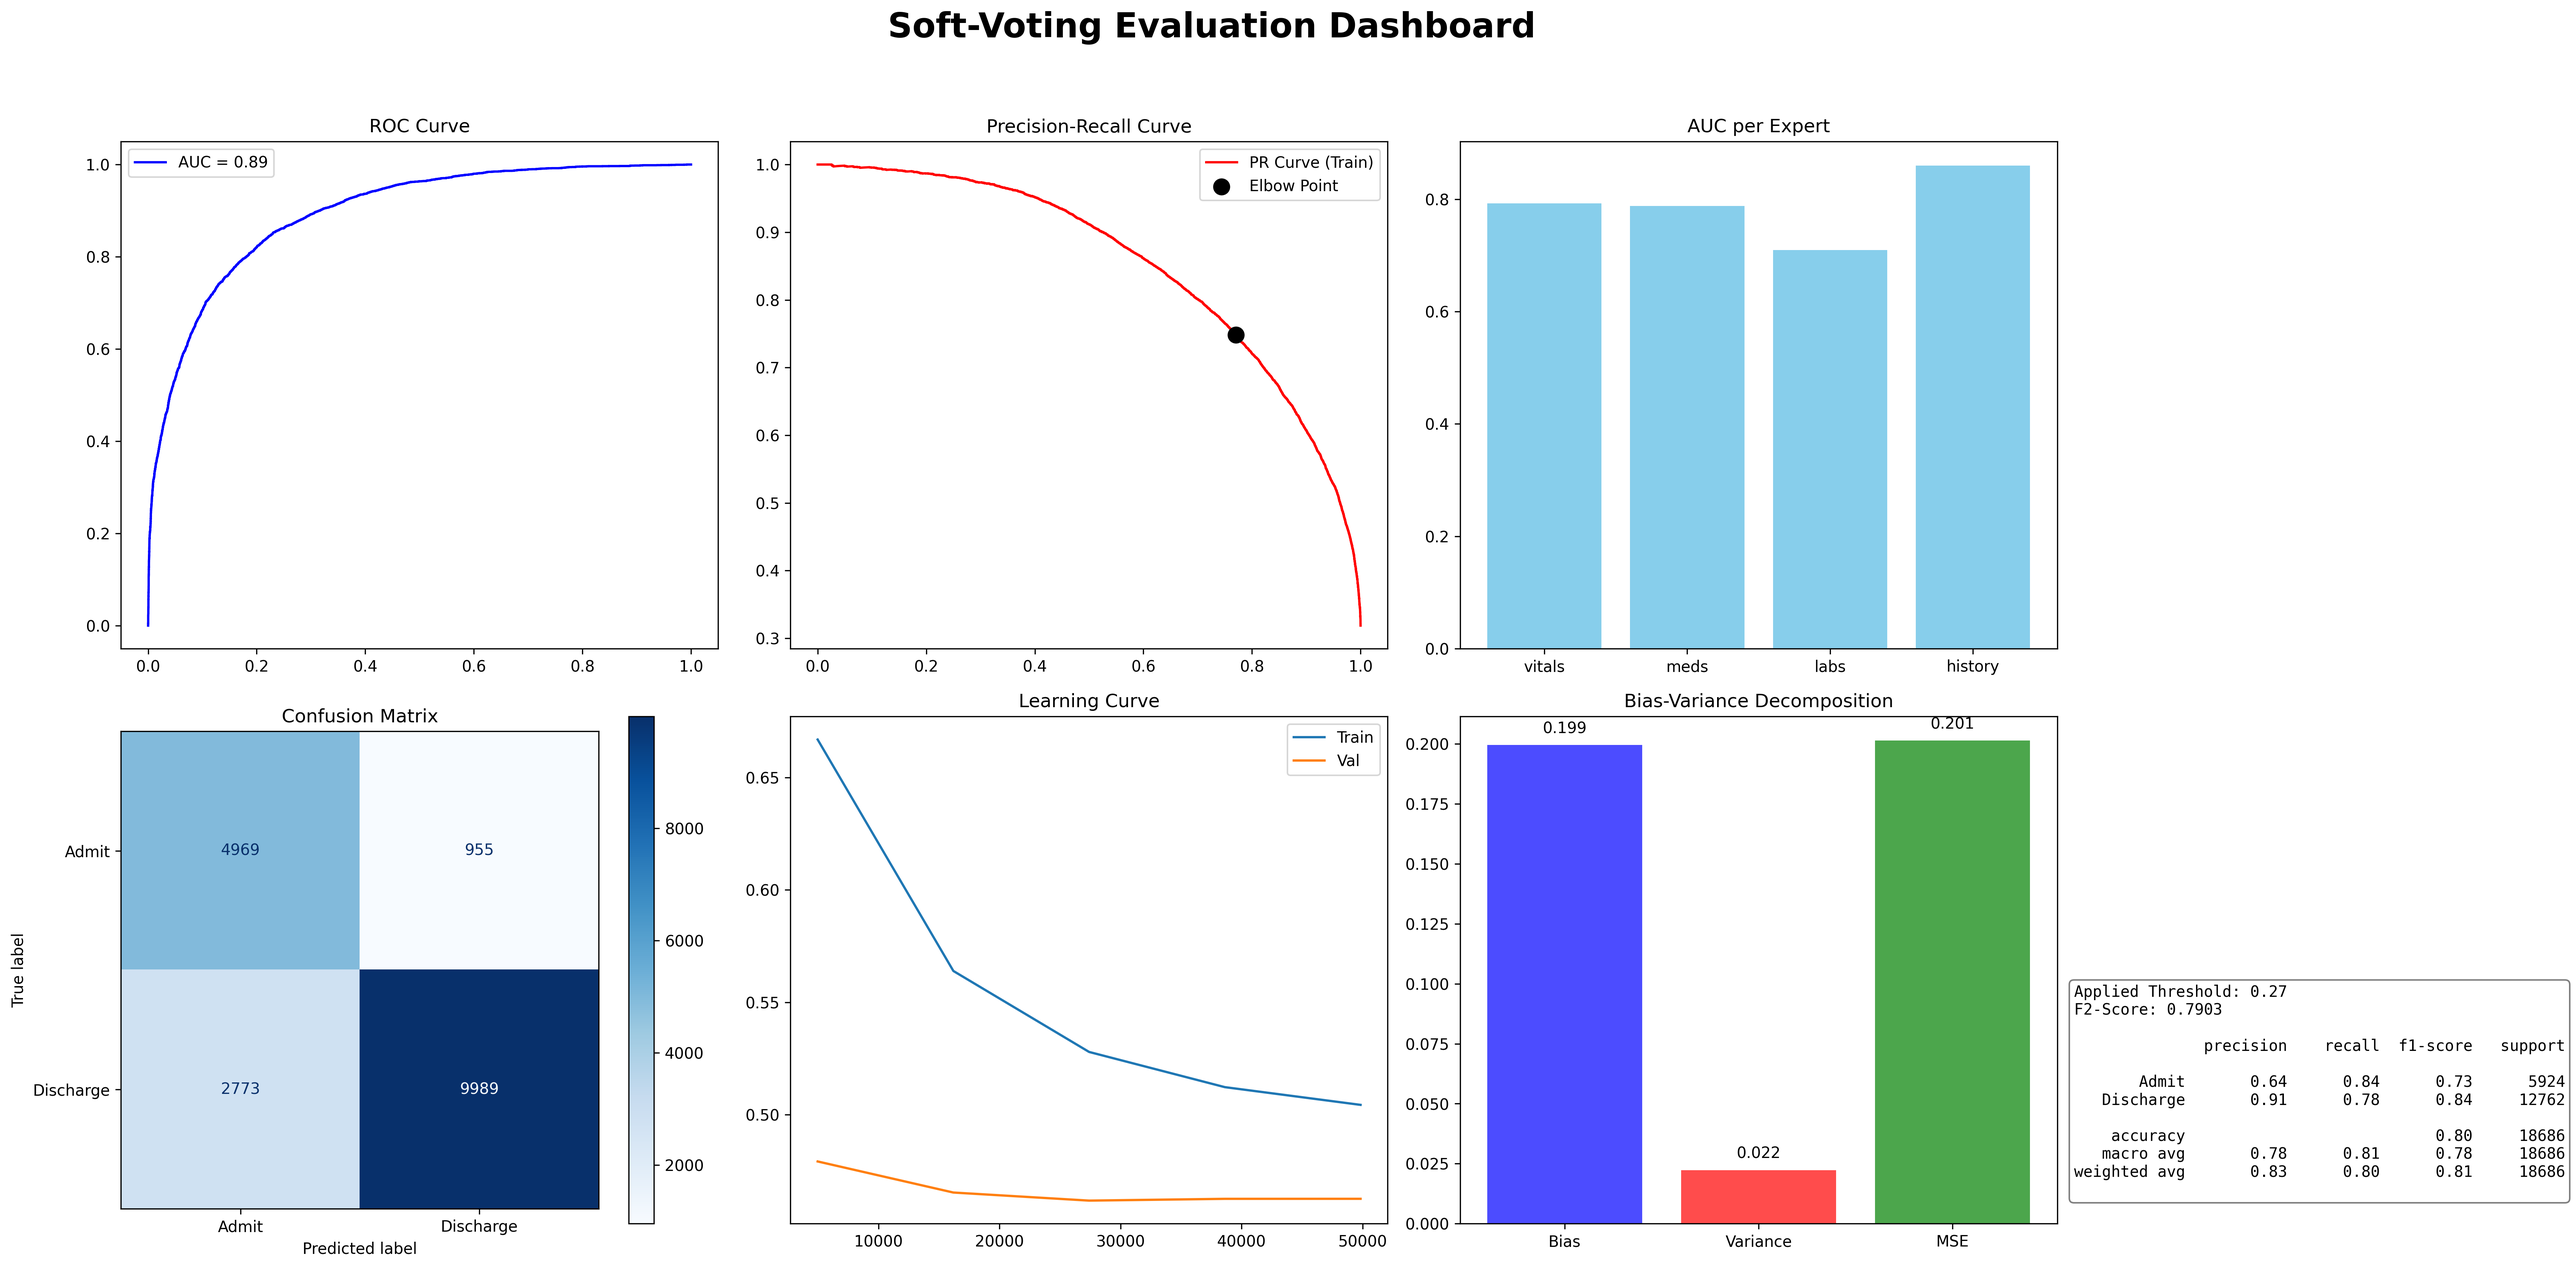
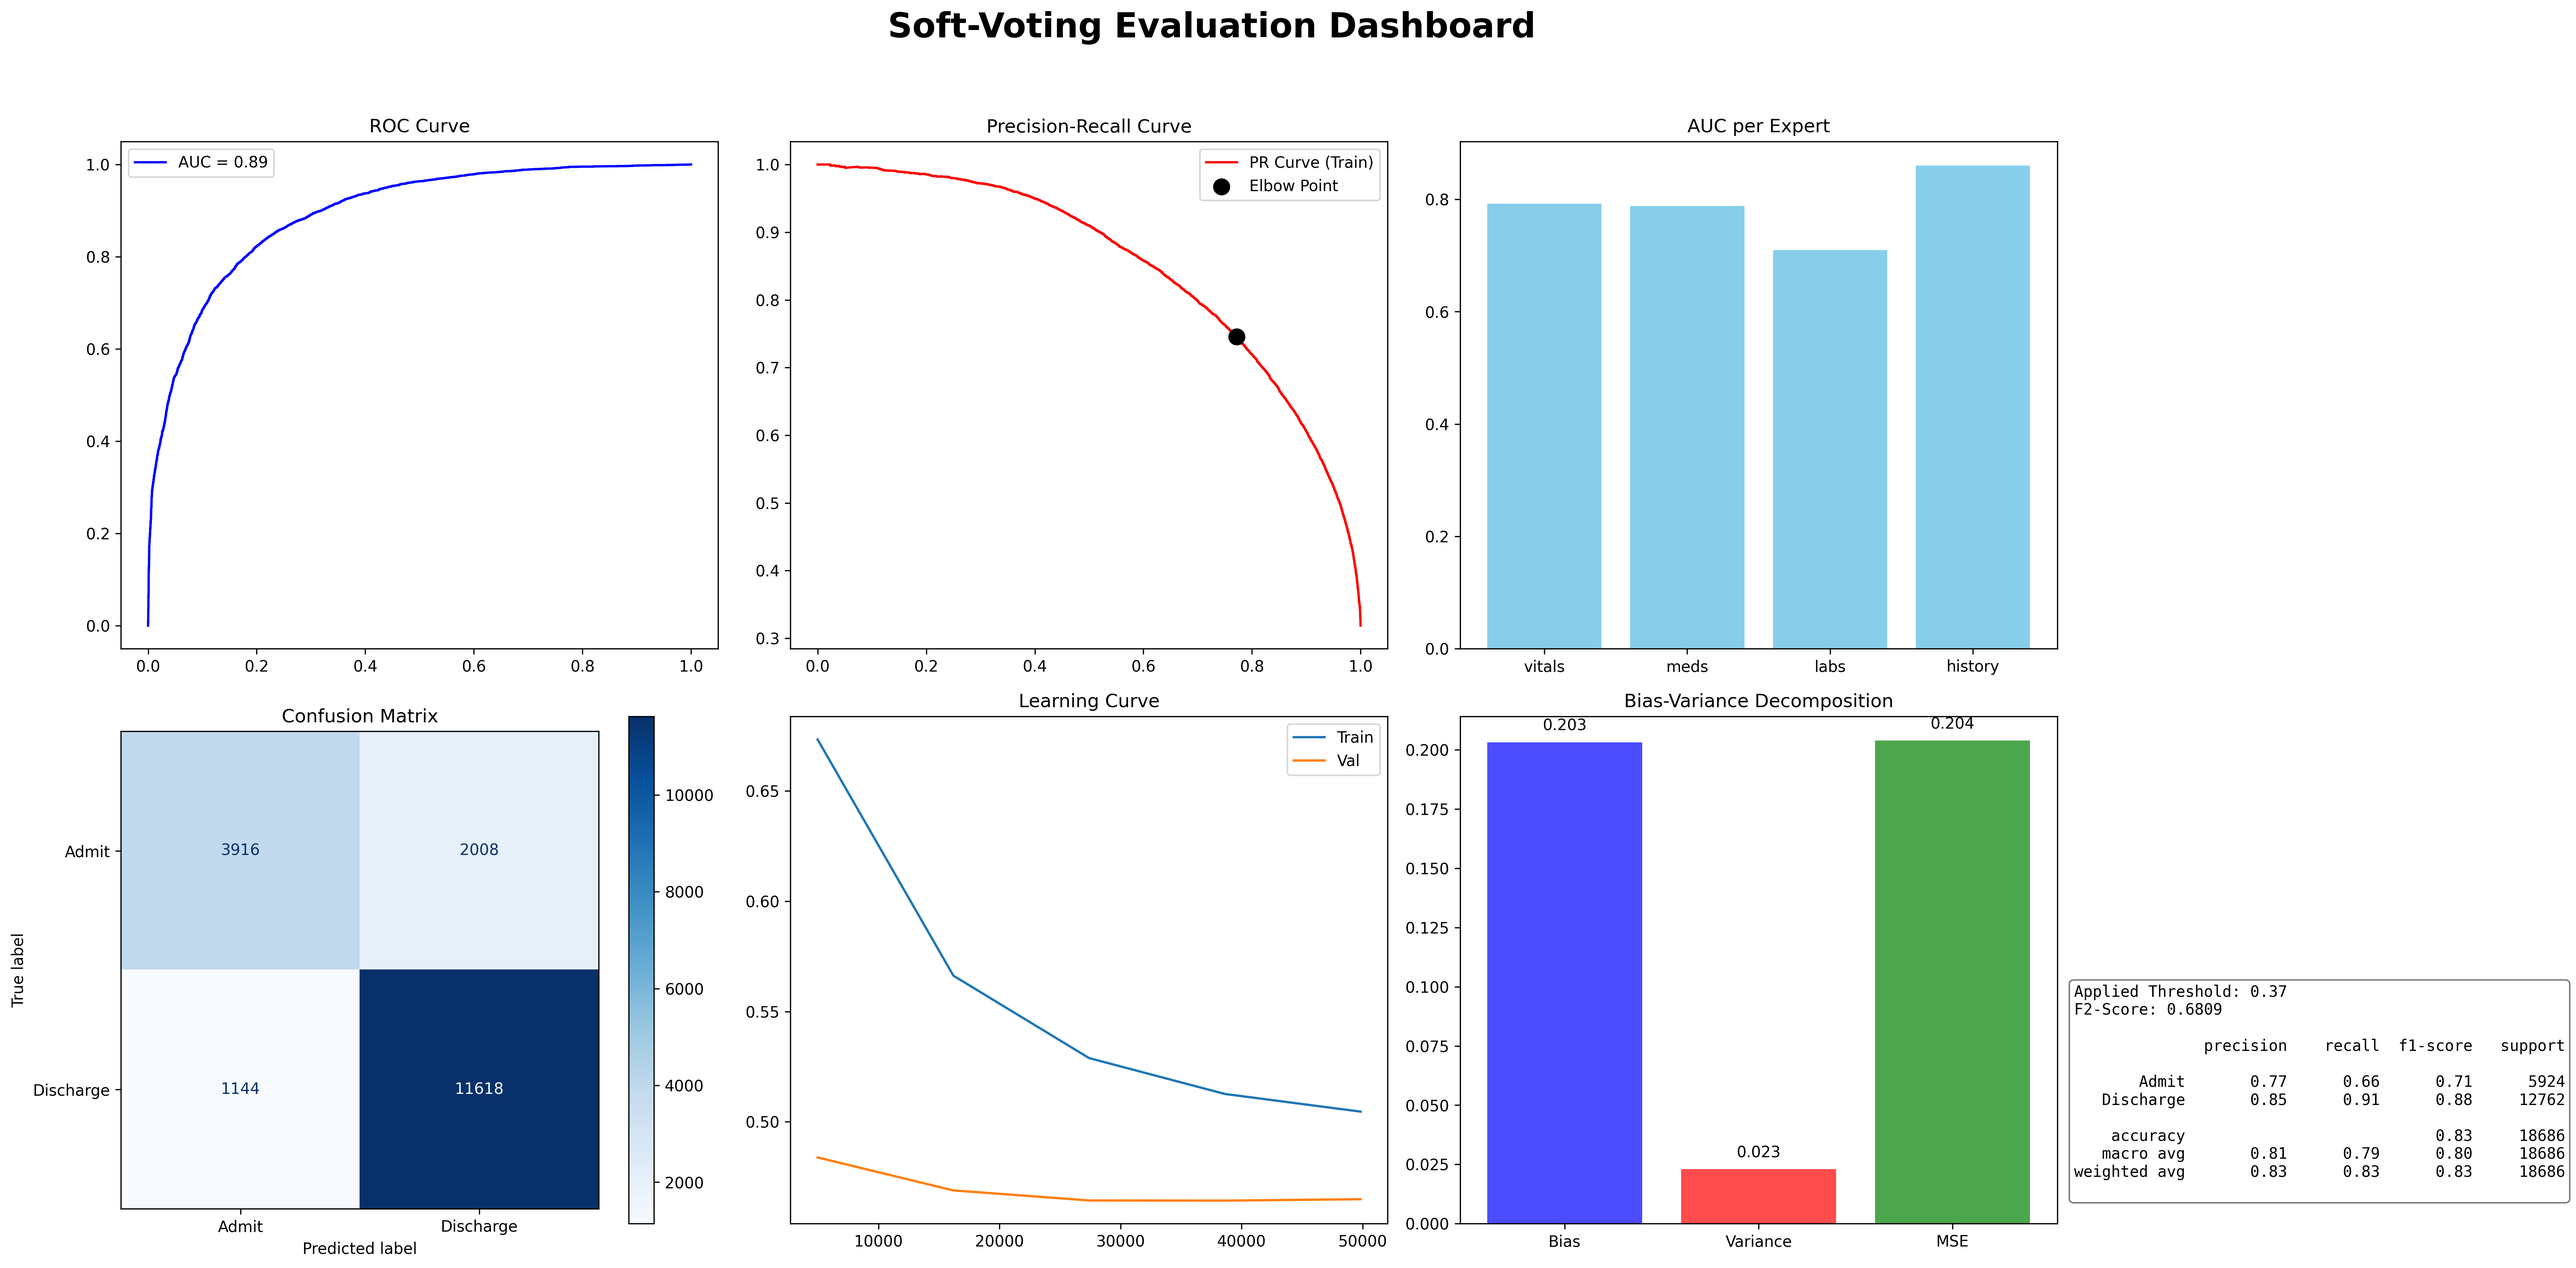
Update thresholds for both classifiers

diff --git a/scripts/triage_stacking.py b/scripts/triage_stacking.py
@@ -102,11 +102,12 @@ stacking_model = StackingClassifier(estimators=base_learners, final_estimator=me
 print("Training Stacking model...")
 stacking_model.fit(X_train_sel.values, y_train)
 
-# 8. Evaluation & Threshold (Elbow)
+# 8. Evaluation & Threshold
 y_prob_train_oof = cross_val_predict(stacking_model, X_train_sel.values, y_train, cv=3, method='predict_proba', n_jobs=-1)[:, 0]
 prec_tr, rec_tr, thresh_tr = precision_recall_curve(y_train, y_prob_train_oof, pos_label=0)
-distances = np.sqrt((1 - prec_tr)**2 + (1 - rec_tr)**2)
-best_t = thresh_tr[np.argmin(distances)]
+distances = rec_tr - (1 - prec_tr)
+best_t = thresh_tr[np.argmax(distances)]
+
 
 y_prob_admit = stacking_model.predict_proba(X_test_sel.values)[:, 0]
 y_pred = np.where(y_prob_admit > best_t, 0, 1)
@@ -124,8 +125,7 @@ axes[0, 0].set_title('ROC Curve'); axes[0, 0].legend()
 
 axes[0, 1].plot(rec_tr, prec_tr, color='red', label='PR Curve (Train)')
 idx_e = np.argmin(distances)
-axes[0, 1].scatter(rec_tr[idx_e], prec_tr[idx_e], color='black', s=100, label=f'Elbow (t={best_t:.2f})', zorder=5)
-axes[0, 1].set_title('Precision-Recall Curve (Elbow)'); axes[0, 1].legend()
+axes[0, 1].set_title('Precision-Recall Curve '); axes[0, 1].legend()
 
 expert_aucs = []
 for name, est in stacking_model.named_estimators_.items():
@@ -149,7 +149,7 @@ for i, v in enumerate([bias, var, mse]): axes[1, 2].text(i, v + 0.005, f'{v:.3f}
 
 axes[1, 3].axis('off')
 report = classification_report(y_test, y_pred, target_names=label_enc.classes_)
-metrics_text = f"Elbow Threshold: {best_t:.2f}\nF2-Score: {fbeta_score(y_test, y_pred, beta=2, pos_label=0):.4f}\n\n{report}"
+metrics_text = f"Youden J Threshold: {best_t:.2f}\nF2-Score: {fbeta_score(y_test, y_pred, beta=2, pos_label=0):.4f}\n\n{report}"
 axes[1, 3].text(-0.1, 1.0, metrics_text, fontsize=10, family='monospace', va='top', bbox=dict(boxstyle='round', facecolor='white', alpha=0.5))
 
 model_artifacts = {

diff --git a/scripts/triage_soft_voting.py b/scripts/triage_soft_voting.py
@@ -159,7 +159,7 @@ y_prob_test_admit = final_model.predict_proba(X_test.values)[:, 0]
 precision_tr, recall_tr, thresholds_tr = precision_recall_curve(y_train, y_prob_train_admit, pos_label=0)
 distances = np.sqrt((1 - precision_tr)**2 + (1 - recall_tr)**2)
 best_threshold = thresholds_tr[np.argmin(distances)]
-final_threshold = best_threshold - 0.05 #Nudging down for better Admit Recall 
+final_threshold = best_threshold + 0.05 
 
 # Final predictions using the adjusted threshold
 y_pred_custom = np.where(y_prob_test_admit > final_threshold, 0, 1)
@@ -177,7 +177,7 @@ train_sizes, train_scores, val_scores = learning_curve(
 train_mean = np.mean(train_scores, axis=1)
 val_mean = np.mean(val_scores, axis=1)
 
-# Dashboard Setup (Removed Calibration Plot)
+# Dashboard Setup 
 fig, axes = plt.subplots(2, 3, figsize=(22, 12))
 fig.suptitle('Soft-Voting Evaluation Dashboard ', fontsize=22, fontweight='bold', y=0.98)
 
